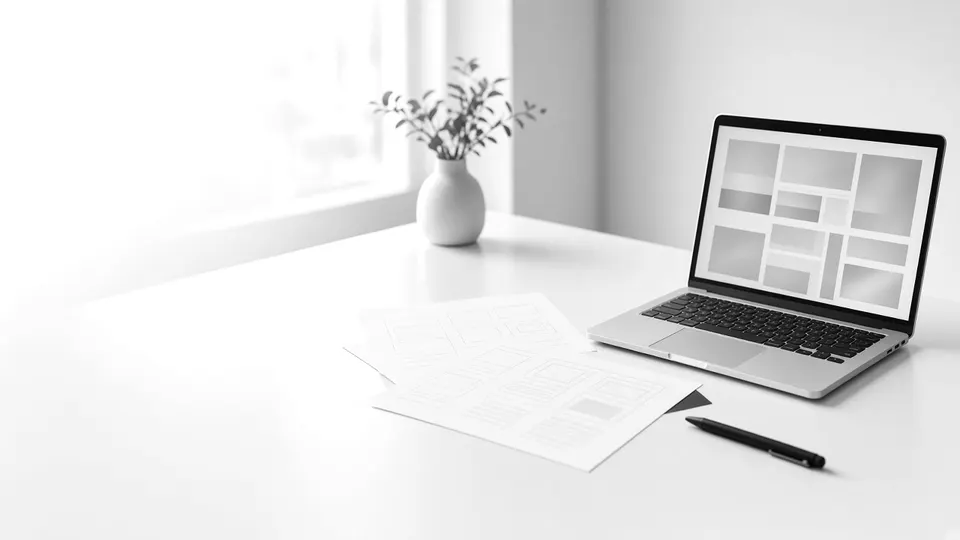
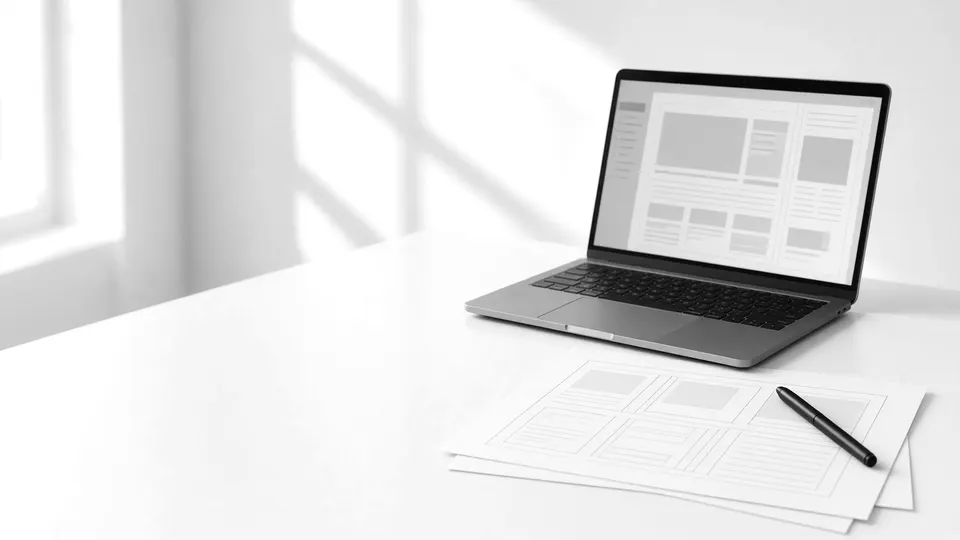
Drop About 01–04 indices and refresh section stills.
Remove oversized partnership/method numbers for title-led rows, and
swap why/architecture plates to intentional system diagrams that match
the page sections.

diff --git a/src/app/[locale]/about/page.tsx b/src/app/[locale]/about/page.tsx
@@ -130,7 +130,7 @@ export default async function AboutPage({ params }: Props) {
             className="about-why__still media-grade"
           >
             <Image
-              src="/assets/images/agency/about-system.webp?v=20260929b"
+              src="/assets/images/agency/about-system.webp?v=20260929d"
               alt=""
               width={1600}
               height={800}
@@ -141,7 +141,7 @@ export default async function AboutPage({ params }: Props) {
         </div>
       </section>
 
-      {/* Partnership — sticky lead + indexed manifesto rows */}
+      {/* Partnership — sticky lead + manifesto rows (no index numbers) */}
       <section
         aria-labelledby="about-work-heading"
         className="chapter chapter--void relative overflow-hidden"
@@ -163,16 +163,13 @@ export default async function AboutPage({ params }: Props) {
             </Reveal>
 
             <RevealGroup
-              as="ol"
+              as="ul"
               className="about-partnership__list"
               stagger={duration.staggerTight}
             >
-              {c.partnership.signals.map((signal, index) => (
+              {c.partnership.signals.map((signal) => (
                 <RevealItem key={signal.title} as="li" variant="fadeUp">
                   <article className="about-partnership__row">
-                    <span className="about-partnership__index" aria-hidden>
-                      {String(index + 1).padStart(2, "0")}
-                    </span>
                     <div className="about-partnership__body">
                       <h3 className="about-partnership__title">
                         {signal.title}
@@ -189,7 +186,7 @@ export default async function AboutPage({ params }: Props) {
         </div>
       </section>
 
-      {/* Method — large-number vertical stack */}
+      {/* Method — phase titles only (no 01/02/03/04) */}
       <section
         aria-labelledby="about-method-heading"
         className="chapter chapter--signal relative overflow-hidden"
@@ -205,17 +202,14 @@ export default async function AboutPage({ params }: Props) {
           </Reveal>
 
           <RevealGroup
-            as="ol"
+            as="ul"
             className="about-method"
             stagger={duration.staggerTight}
             aria-label="KINEXIS method phases"
           >
-            {c.method.phases.map((phase, index) => (
+            {c.method.phases.map((phase) => (
               <RevealItem key={phase.title} as="li" variant="fadeUp">
                 <article className="about-method__step">
-                  <span className="about-method__num" aria-hidden>
-                    {String(index + 1).padStart(2, "0")}
-                  </span>
                   <div className="about-method__copy">
                     <h3 className="about-method__title">{phase.title}</h3>
                     <p className="about-method__body">{phase.desc}</p>
@@ -269,7 +263,7 @@ export default async function AboutPage({ params }: Props) {
             className="about-arch__plate media-grade"
           >
             <Image
-              src="/assets/images/editorial/about-architecture-plate.webp?v=20260929b"
+              src="/assets/images/editorial/about-architecture-plate.webp?v=20260929d"
               alt=""
               width={1400}
               height={788}

diff --git a/src/app/globals.css b/src/app/globals.css
@@ -5382,7 +5382,7 @@ body:has(.cta-section:not(.cta-section--inline)) .site-footer__cta {
   }
 }
 
-/* Partnership — sticky lead + indexed rows */
+/* Partnership — sticky lead + manifesto rows (title-led, no indices) */
 .about-partnership {
   display: grid;
   gap: 3rem;
@@ -5423,21 +5423,12 @@ body:has(.cta-section:not(.cta-section--inline)) .site-footer__cta {
 
 .about-partnership__row {
   display: grid;
-  grid-template-columns: auto minmax(0, 1fr);
-  gap: 1.25rem 1.75rem;
-  padding: 0;
+  gap: 0;
+  padding: 0 0 0 1.1rem;
   border: none;
+  border-left: 2px solid
+    color-mix(in oklab, var(--about-signal) 55%, transparent);
   background: transparent;
-}
-
-.about-partnership__index {
-  font-family: var(--font-display), system-ui, sans-serif;
-  font-size: clamp(1.6rem, 3vw, 2.1rem);
-  font-weight: 750;
-  letter-spacing: -0.05em;
-  line-height: 1;
-  color: color-mix(in oklab, var(--about-signal) 80%, var(--foreground));
-  padding-top: 0.15rem;
 }
 
 .about-partnership__body {
@@ -5467,7 +5458,7 @@ body:has(.cta-section:not(.cta-section--inline)) .site-footer__cta {
   text-wrap: pretty;
 }
 
-/* Method — oversized numbers, vertical stack */
+/* Method — phase titles as the only hierarchy (no 01/02/03) */
 .about-method {
   list-style: none;
   margin: 0;
@@ -5484,45 +5475,11 @@ body:has(.cta-section:not(.cta-section--inline)) .site-footer__cta {
 
 .about-method__step {
   display: grid;
-  gap: 0.85rem 2rem;
+  gap: 0;
   padding: 0;
   border: none;
   background: transparent;
   position: relative;
-}
-
-@media (min-width: 768px) {
-  .about-method__step {
-    grid-template-columns: 6.5rem minmax(0, 1fr);
-    align-items: start;
-  }
-}
-
-.about-method__num {
-  font-family: var(--font-display), system-ui, sans-serif;
-  font-size: clamp(2.75rem, 6vw, 4.25rem);
-  font-weight: 750;
-  letter-spacing: -0.07em;
-  line-height: 0.9;
-  color: color-mix(in oklab, var(--about-signal) 70%, transparent);
-  animation: about-num-in 900ms cubic-bezier(0.22, 1, 0.36, 1) both;
-}
-
-@keyframes about-num-in {
-  from {
-    opacity: 0.35;
-    transform: translateY(0.35rem);
-  }
-  to {
-    opacity: 1;
-    transform: translateY(0);
-  }
-}
-
-@media (prefers-reduced-motion: reduce) {
-  .about-method__num {
-    animation: none;
-  }
 }
 
 .about-method__copy {
@@ -5530,7 +5487,7 @@ body:has(.cta-section:not(.cta-section--inline)) .site-footer__cta {
   gap: 0.55rem;
   min-width: 0;
   max-width: 38rem;
-  padding-top: 0.35rem;
+  padding-top: 0;
 }
 
 .about-method__title {

diff --git a/src/content/page-hero-stills.ts b/src/content/page-hero-stills.ts
@@ -9,10 +9,10 @@ export const pageHeroStills = {
     srcSm: "/assets/images/agency/hero-services-sm.webp",
   },
   about: {
-    src: "/assets/images/agency/hero-about.webp?v=20260929c",
-    srcSm: "/assets/images/agency/hero-about-sm.webp?v=20260929c",
+    src: "/assets/images/agency/hero-about.webp?v=20260929d",
+    srcSm: "/assets/images/agency/hero-about-sm.webp?v=20260929d",
     /** Bias desk craft into the clear right half under the wash */
-    focus: "78% 42%",
+    focus: "80% 44%",
   },
   caseStudies: {
     src: "/assets/images/agency/hero-work.webp",
